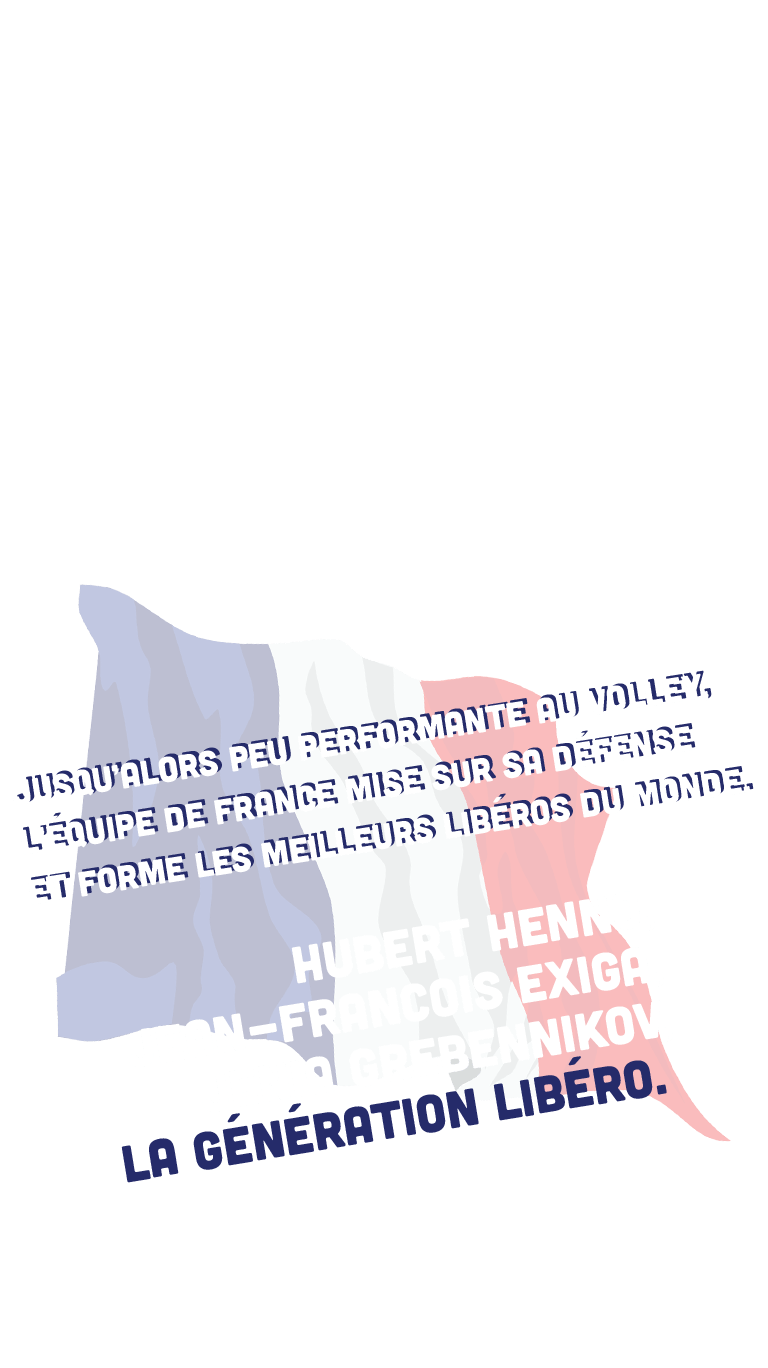
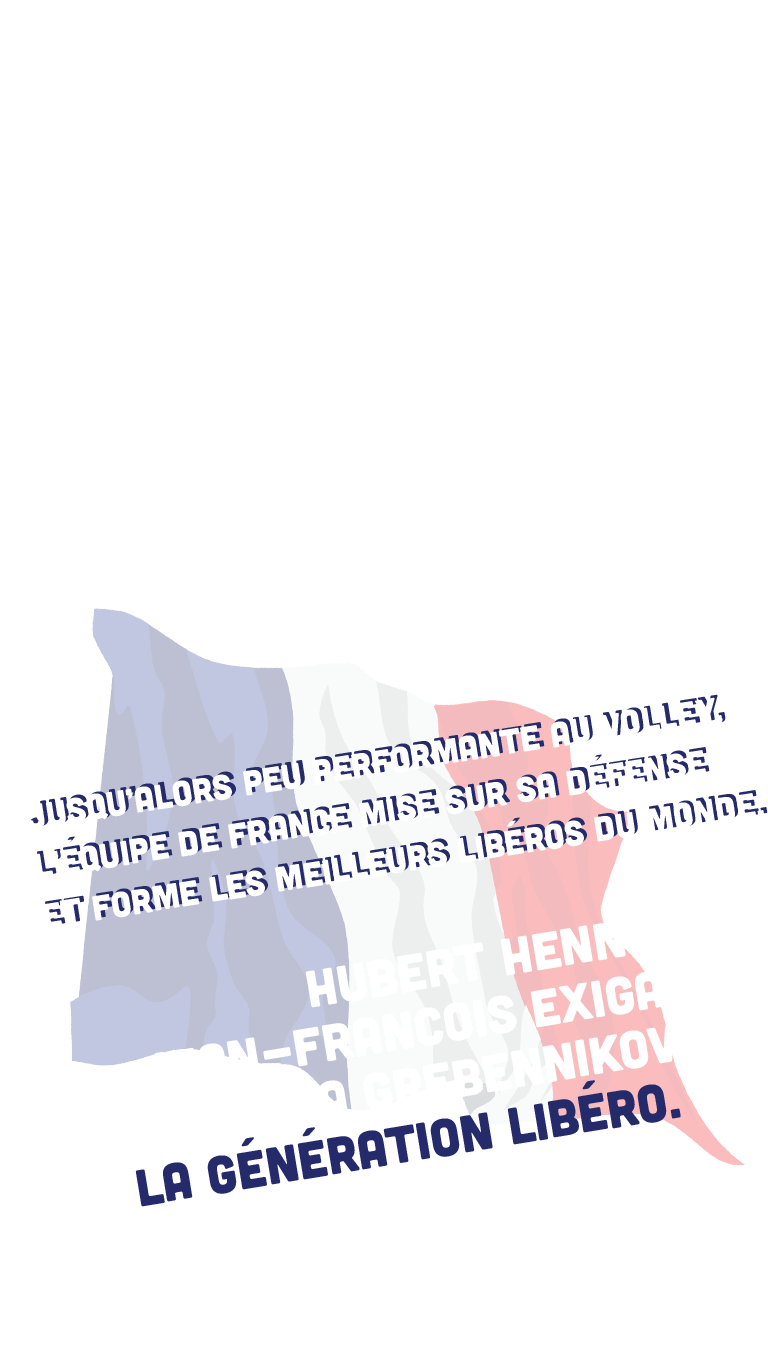
correction bug responsive

Changed region(s): [[0.0312, 0.4298, 1.0, 0.8904]]

diff --git a/src/components/Board/Board.js b/src/components/Board/Board.js
@@ -72,7 +72,7 @@ export default class Board extends Component {
                 <div className="Board__slide Board__slide--bottom">
                 </div>
                 <div className="Board__slide Board__slide--bottom">
-                    <Edito content={this.props.datas.text[0].zone_2} positionBottom="60%"></Edito>
+                    <Edito content={this.props.datas.text[0].zone_2} positionBottom="51%"></Edito>
                     <Element name="liberos-francais.png" index="p1"></Element>
                 </div>
                 {/* CHAP 1 */}
